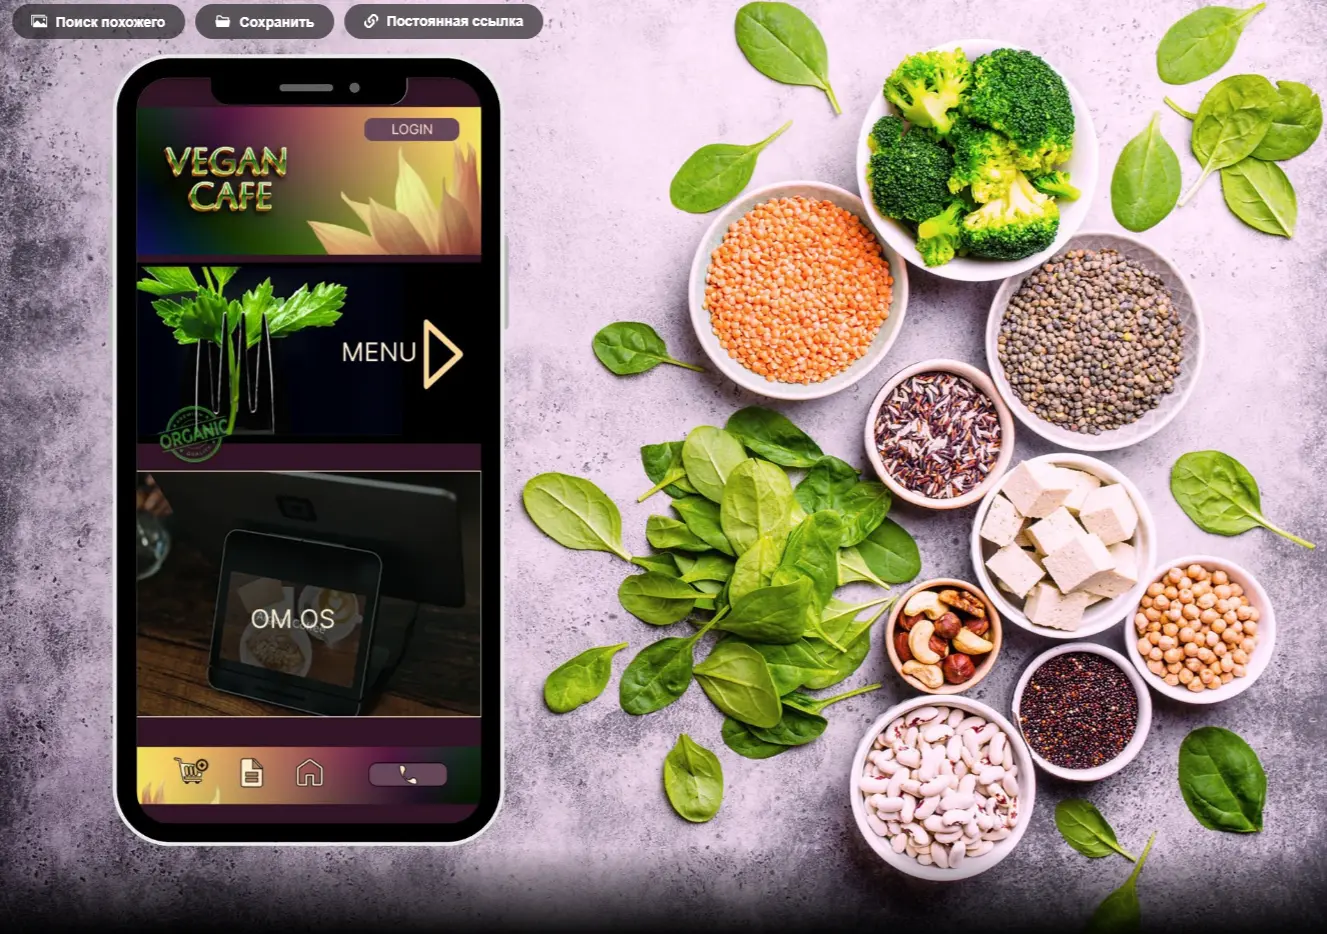
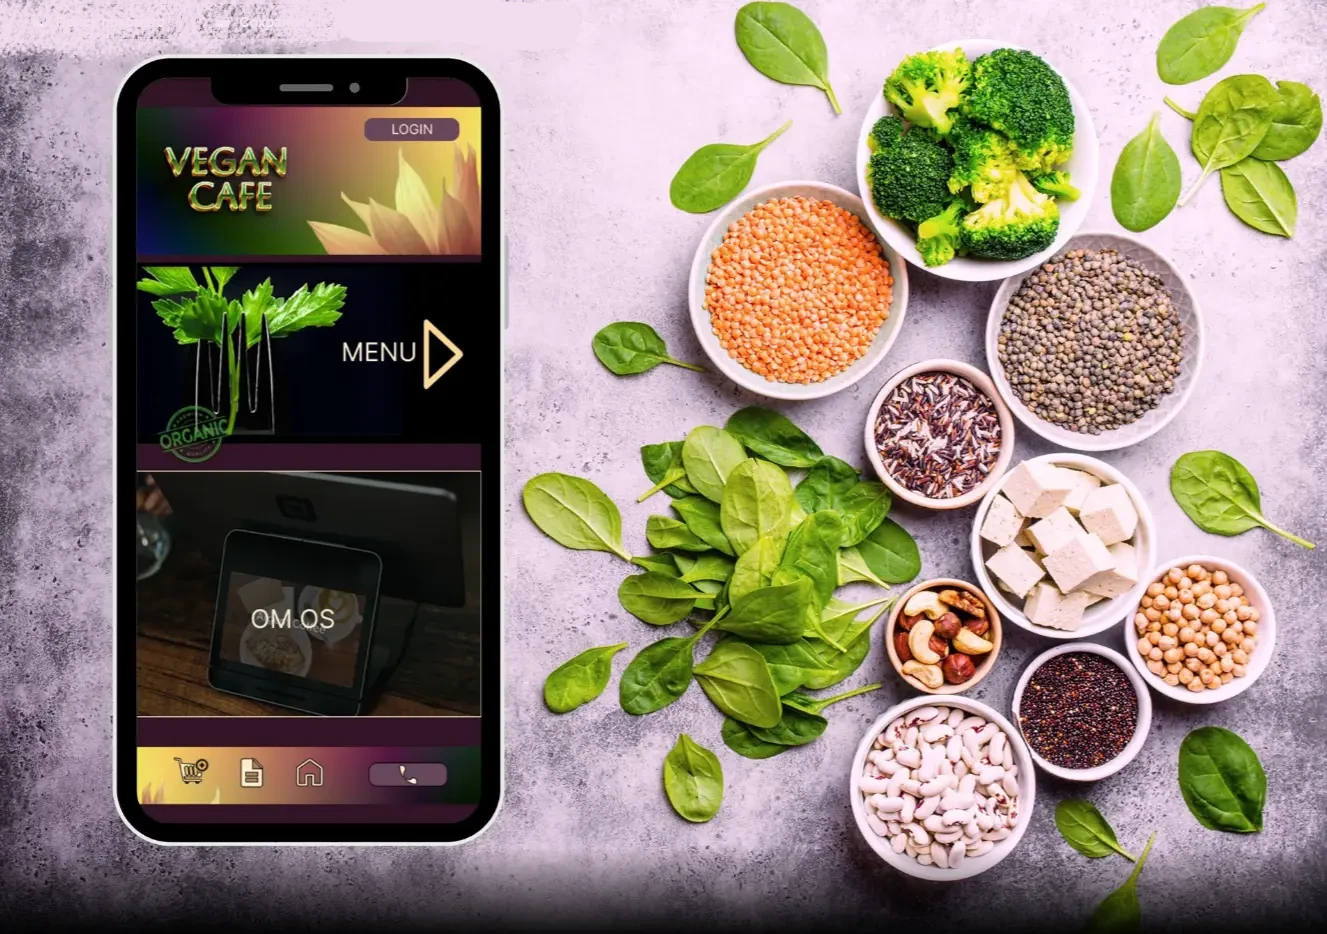
style

Changed region(s): [[0.0, 0.0, 0.4326, 0.0621]]

diff --git a/om.html b/om.html
@@ -58,10 +58,202 @@
   </header>
 
   <main>
+    <section class="section section--light" id="om-mig">
+      <h1 class="section__heading">Om mig</h1>
 
+      <div class="about">
+        <div class="about-image">
+          <img src="img/portrait1.webp" alt="Iryna Makhovska" loading="lazy">
+        </div>
+        <div class="about-text">
+          <h2>Hej, jeg er Iryna</h2>
+          <p>
+            Jeg er multimediedesigner med base i Danmark og kombinerer digitalt
+            design med kunstnerisk tænkning. Mit arbejde fokuserer på at skabe
+            visuelle identiteter, interaktive oplevelser og meningsfulde
+            designs, der forener æstetik og funktionalitet.
+          </p>
+          <p>
+            Jeg mener, at godt design ikke blot skal kommunikere, men også
+            vække følelser. Den tilgang tager jeg med mig i alt fra research
+            og konceptudvikling til kode og finpudsning.
+          </p>
+          <a href="kontakt.html" class="btn-dark">Kontakt mig</a>
+        </div>
+      </div>
+    </section>
 
+    <!--  DET KAN JEG -->
+    <section class="section section--light" id="det-kan-jeg">
+      <h2 class="section__heading">Det kan jeg</h2>
 
-     </main>
+      <div class="skills-detail-grid">
+
+        <div class="skill-card">
+          <img src="img/kafe.webp" alt="UI/UX Design">
+          <div class="skill-card-body">
+            <h3>UI/UX Design</h3>
+            <p class="skill-intro">
+              Designer brugervenlige interfaces med fokus på klar navigation
+              og en gennemtænkt brugeroplevelse.
+            </p>
+            <a href="#" class="btn case-toggle-btn" data-target="skill-uiux">Se mere</a>
+            <div class="skill-detail" id="skill-uiux" hidden>
+              <p>
+                Jeg starter altid med at forstå brugerens behov, før jeg
+                tegner en eneste skærm. Jeg arbejder i Figma med wireframes
+                og klikbare prototyper, og tester løsningerne undervejs, så
+                designet er baseret på reel brugeradfærd — ikke kun
+                antagelser.
+              </p>
+            </div>
+          </div>
+        </div>
+
+        <div class="skill-card">
+          <img src="img/web.webp" alt="Webudvikling">
+          <div class="skill-card-body">
+            <h3>Webudvikling</h3>
+            <p class="skill-intro">
+              Koder hjemmesider fra bunden med HTML, SCSS og JavaScript, med
+              fokus på responsivt design.
+            </p>
+            <a href="#" class="btn case-toggle-btn" data-target="skill-web">Se mere</a>
+            <div class="skill-detail" id="skill-web" hidden>
+              <p>
+                Jeg koder fra bunden med HTML, SCSS og JavaScript — ingen
+                page builders eller templates. Jeg strukturerer koden
+                objektorienteret med genanvendelige komponenter, og lægger
+                vægt på at sitet er responsivt og tilgængeligt på alle
+                skærmstørrelser.
+              </p>
+            </div>
+          </div>
+        </div>
+
+        <div class="skill-card">
+          <img src="img/brand.webp" alt="Branding">
+          <div class="skill-card-body">
+            <h3>Branding</h3>
+            <p class="skill-intro">
+              Udvikler visuelle identiteter fra bunden — moodboard,
+              farvepalette og et sammenhængende udtryk.
+            </p>
+            <a href="#" class="btn case-toggle-btn" data-target="skill-branding">Se mere</a>
+            <div class="skill-detail" id="skill-branding" hidden>
+              <p>
+                En visuel identitet starter for mig med et moodboard, der
+                sætter retningen. Derefter arbejder jeg igennem flere
+                logo-iterationer, før jeg låser farvepalette og typografi —
+                og sikrer, at identiteten holder sammen på tværs af alt fra
+                visitkort til video.
+              </p>
+            </div>
+          </div>
+        </div>
+
+        <div class="skill-card">
+          <img src="img/branding4.webp" alt="Typografi">
+          <div class="skill-card-body">
+            <h3>Typografi</h3>
+            <p class="skill-intro">
+              Vælger og kombinerer skrifttyper bevidst, så de understøtter
+              budskab og identitet.
+            </p>
+            <a href="#" class="btn case-toggle-btn" data-target="skill-typografi">Se mere</a>
+            <div class="skill-detail" id="skill-typografi" hidden>
+              <p>
+                Jeg vælger skrifttyper ud fra, hvad de skal kommunikere —
+                ikke kun hvordan de ser ud. Kombinationen af en
+                display-skrift til overskrifter og en roligere skrift til
+                brødtekst er noget, jeg arbejder bevidst med i hvert
+                projekt.
+              </p>
+            </div>
+          </div>
+        </div>
+
+        <div class="skill-card">
+          <img src="img/grafisk-tablet.webp" alt="Illustration">
+          <div class="skill-card-body">
+            <h3>Illustration</h3>
+            <p class="skill-intro">
+              Tegner digitalt på grafisk tablet, fra skitse til færdig
+              illustration.
+            </p>
+            <a href="#" class="btn case-toggle-btn" data-target="skill-illustration">Se mere</a>
+            <div class="skill-detail" id="skill-illustration" hidden>
+              <p>
+                Jeg tegner digitalt på en grafisk tablet, fra hurtige
+                skitser til den færdige illustration. Til bogomslaget
+                "Bisp. Gunner" arbejdede jeg med at bevare en håndtegnet
+                kvalitet, selvom hele processen foregik digitalt.
+              </p>
+            </div>
+          </div>
+        </div>
+
+        <div class="skill-card">
+          <img src="img/some.webp" alt="Social media design">
+          <div class="skill-card-body">
+            <h3>Social media design</h3>
+            <p class="skill-intro">
+              Designer content til sociale medier, tilpasset den enkelte
+              platforms format.
+            </p>
+            <a href="#" class="btn case-toggle-btn" data-target="skill-some">Se mere</a>
+            <div class="skill-detail" id="skill-some" hidden>
+              <p>
+                Jeg designer indhold, der er tilpasset den enkelte
+                platforms format og målgruppe — fra feed-opslag til
+                stories. Fokus er på, at indholdet stadig føles som en del
+                af en samlet visuel identitet.
+              </p>
+            </div>
+          </div>
+        </div>
+
+        <div class="skill-card">
+          <img src="img/foto.webp" alt="Foto">
+          <div class="skill-card-body">
+            <h3>Foto</h3>
+            <p class="skill-intro">
+              Fotograferer og redigerer billeder til brug i branding og
+              digitalt indhold.
+            </p>
+            <a href="#" class="btn case-toggle-btn" data-target="skill-foto">Se mere</a>
+            <div class="skill-detail" id="skill-foto" hidden>
+              <p>
+                Jeg fotograferer og redigerer billeder til brug i branding
+                og digitalt indhold — med fokus på lys, komposition og et
+                udtryk der matcher projektets identitet.
+              </p>
+            </div>
+          </div>
+        </div>
+
+        <div class="skill-card">
+          <img src="img/vid-img.webp" alt="Video">
+          <div class="skill-card-body">
+            <h3>Video</h3>
+            <p class="skill-intro">
+              Arbejder med hele processen fra optagelse til klip og
+              farvekorrigering.
+            </p>
+            <a href="#" class="btn case-toggle-btn" data-target="skill-video">Se mere</a>
+            <div class="skill-detail" id="skill-video" hidden>
+              <p>
+                Jeg arbejder med hele processen fra optagelse til klip og
+                farvekorrigering i Premiere Pro og After Effects, med fokus
+                på at fortælle en historie gennem levende billeder.
+              </p>
+            </div>
+          </div>
+        </div>
+
+      </div>
+    </section>
+  </main>
 
   <!-- FOOTER -->
 <footer class="site-footer">

diff --git a/scss/_components.scss b/scss/_components.scss
@@ -459,9 +459,6 @@ h1 {
 }
 
 /* Case study (portfolio.html) */
-
-
-
 .case-card {
   display: grid;
   max-width: $max-width;
@@ -502,10 +499,6 @@ h1 {
 }
 
 
-/* "Se mere" — skjult sektion med procesbilleder */
-.case-details {
-  margin-top: $space-1;
-}
 
 
 
@@ -536,6 +529,64 @@ h1 {
     font-size: 1.1rem;
     margin-bottom: 0.4rem;
   }
+}
+
+/*Det kan jeg (portfolio.html*/
+
+.skills-detail-grid {
+  display: grid;
+  grid-template-columns: 1fr;
+  gap: $space-3;
+  max-width: $max-width;
+  margin: 0 auto;
+  padding: 0 $space-2;
+
+  @include respond($bp-tablet) {
+    grid-template-columns: repeat(2, 1fr);
+  }
+
+  @include respond($bp-desktop) {
+    grid-template-columns: repeat(4, 1fr);
+  }
+}
+
+.skill-card {
+  background: $color-lavender;
+  border-radius: $radius-md;
+  overflow: hidden;
+  box-shadow: 0 8px 20px rgba($color-dark, 0.12);
+  display: flex;
+  flex-direction: column;
+}
+
+.skill-card img {
+  width: 100%;
+  aspect-ratio: 4 / 3;
+  object-fit: cover;
+  display: block;
+}
+
+.skill-card-body {
+  padding: $space-2;
+  display: flex;
+  flex-direction: column;
+  gap: 0.5rem;
+}
+
+.skill-card-body h3 {
+  font-size: 1.1rem;
+  margin-bottom: 0;
+}
+
+.skill-intro {
+  font-size: 0.9rem;
+  opacity: 0.8;
+}
+
+.skill-detail {
+  margin-top: $space-1;
+  font-size: 0.9rem;
+  opacity: 0.9;
 }
 
 /* Flydende kontakt-knap  */

diff --git a/css/style.css b/css/style.css
@@ -776,6 +776,66 @@ h1 {
   margin-bottom: 0.4rem;
 }
 
+/*Det kan jeg */
+.skills-detail-grid {
+  display: grid;
+  grid-template-columns: 1fr;
+  gap: 1.5rem;
+  max-width: 1100px;
+  margin: 0 auto;
+  padding: 0 1rem;
+}
+@media (min-width: 700px) {
+  .skills-detail-grid {
+    grid-template-columns: repeat(2, 1fr);
+  }
+}
+@media (min-width: 1024px) {
+  .skills-detail-grid {
+    grid-template-columns: repeat(4, 1fr);
+  }
+}
+
+.skill-card {
+  background: #e7d9f4;
+  border-radius: 20px;
+  overflow: hidden;
+  box-shadow: 0 8px 20px rgba(26, 24, 27, 0.12);
+  display: flex;
+  flex-direction: column;
+}
+
+.skill-card img {
+  width: 100%;
+  aspect-ratio: 4/3;
+  -o-object-fit: cover;
+     object-fit: cover;
+  display: block;
+}
+
+.skill-card-body {
+  padding: 1rem;
+  display: flex;
+  flex-direction: column;
+  gap: 0.5rem;
+}
+
+.skill-card-body h3 {
+  font-size: 1.1rem;
+  margin-bottom: 0;
+}
+
+.skill-intro {
+  font-size: 0.9rem;
+  opacity: 0.8;
+}
+
+.skill-detail {
+  margin-top: 0.5rem;
+  font-size: 0.9rem;
+  opacity: 0.9;
+}
+
 /* Flydende kontakt-knap  */
 .floating-contact {
   position: fixed;

diff --git a/js/main.js b/js/main.js
@@ -1,6 +1,7 @@
 import { Nav } from './Nav.js';
 import { ContactForm } from './ContactForm.js';
 import { CaseGrid } from './CaseGrid.js';
+import { CaseToggle } from './CaseToggle.js';
 
 
 
